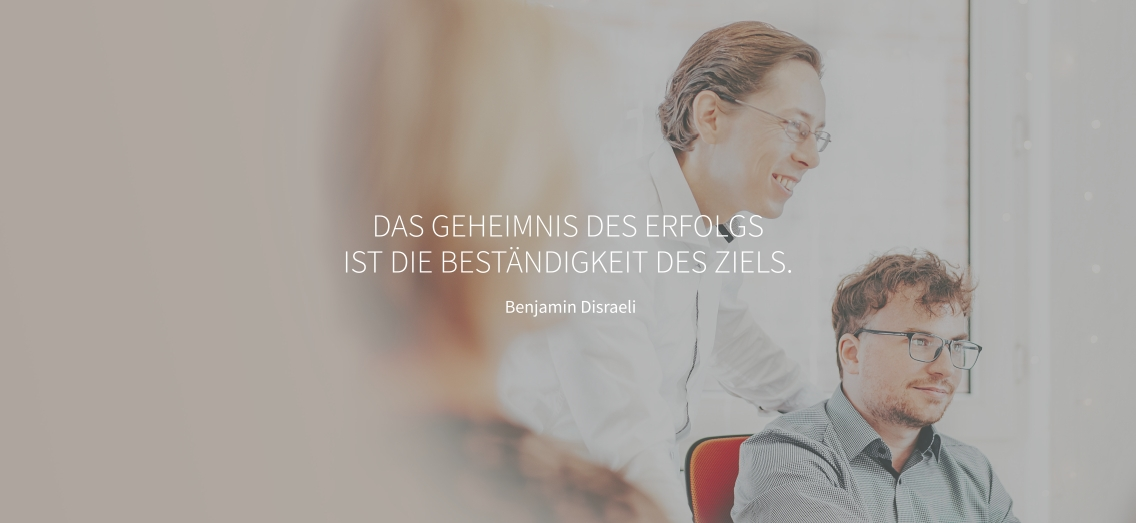
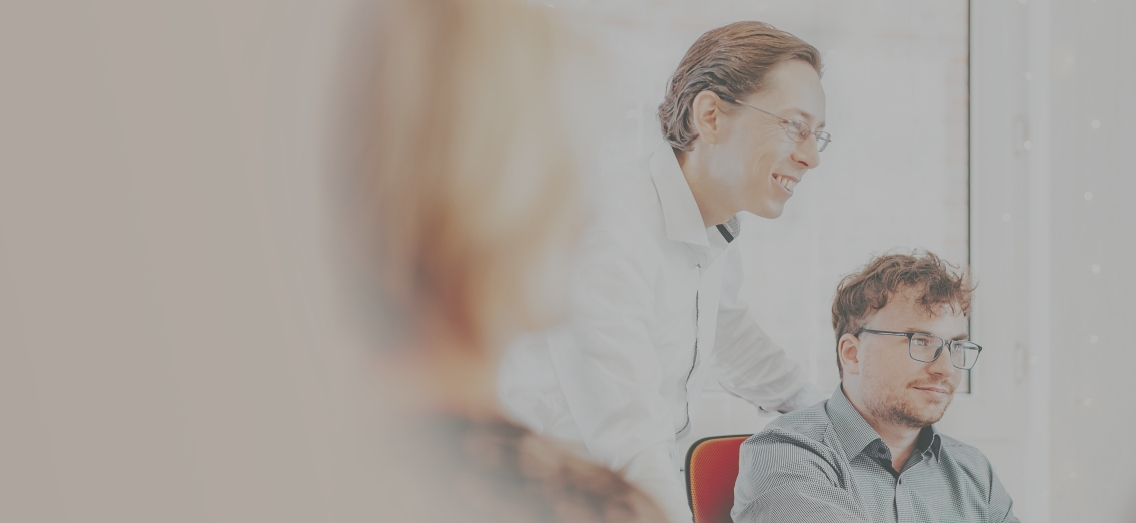
Change mask element container, small change css

Changed region(s): [[0.3081, 0.3977, 0.7086, 0.5201], [0.4313, 0.5813, 0.5546, 0.6119]]

diff --git a/fileadmin/template_v2/Resources/Private/Extensions/Mask/content/container.html b/fileadmin/template_v2/Resources/Private/Extensions/Mask/content/container.html
@@ -1,7 +1,28 @@
 <div class="section container">
-  <f:if condition="{data.image}">
-    <f:for each="{data.image}" as="file">
-      <f:image image="{file}" alt="{file.alternative}" title="{file.title}" width="1120" class="res-i" additionalAttributes="{loading: 'lazy'}" />
-    </f:for>
-  </f:if>
+  <div class="img-wrap-center">
+    <f:if condition="{data.image}">
+      <f:for each="{data.image}" as="file">
+        <f:image image="{file}" alt="{file.alternative}" title="{file.title}" width="1120" class="res-i" additionalAttributes="{loading: 'lazy'}" />
+      </f:for>
+    </f:if>
+    <div class="img-wrap-center__caption">
+
+      <f:if condition="{data.tx_mask_container_header}">
+        <h2><f:format.raw>{data.tx_mask_container_header}</f:format.raw></h2>
+      </f:if>
+      <f:if condition="{data.tx_mask_container_text}">
+        <p><f:format.raw>{data.tx_mask_container_text}</f:format.raw></p>
+      </f:if>
+    </div>
+  </div>
 </div>
+
+<!--
+<div class="img-wrap-center">
+  <img src="img/center-img2.jpg" loading="lazy" alt="" class="res-i">
+  <div class="img-wrap-center__caption">
+
+    <h2>DAS GEHEIMNIS DES ERFOLGS  <br> IST DIE BESTÄNDIGKEIT DES ZIELS.</h2>
+    <p>Benjamin Disraeli</p>
+  </div>
+</div> -->

diff --git a/fileadmin/template_v2/Resources/Public/css/style_back.css b/fileadmin/template_v2/Resources/Public/css/style_back.css
@@ -35,7 +35,7 @@ a {
           justify-content: center;
   padding-top: 2.5rem;
   padding-bottom: 2.5rem;
-  min-height: calc(100vh - 180px);
+  min-height: calc(100vh - 80px);
 }
 .headerBlock::before {
   content: "";
@@ -241,24 +241,4 @@ body h5 {
 }
 .contact-data strong a {
   color: #b61928 !important;
-}
-
-.img-wrap-center {
-  position: relative;
-}
-
-.img-wrap-center__caption {
-  position: absolute;
-  left: 50%;
-  top: 50%;
-  bottom: auto;
-  right: auto;
-  -webkit-transform: translate(-50%, -50%);
-      -ms-transform: translate(-50%, -50%);
-          transform: translate(-50%, -50%);
-  text-align: center;
-  color: #ffffff;
-  font-size: 18px;
-  font-weight: 300;
-  width: 100%;
 }

diff --git a/fileadmin/template_v2/Resources/Public/css/style.scss b/fileadmin/template_v2/Resources/Public/css/style.scss
@@ -23,7 +23,7 @@ a{@include mt;}
   }
   padding-top: rem(40);
   padding-bottom: rem(40);
-  min-height: calc(100vh - 80px);
+  min-height: calc(100vh - 180px);
   &::before {
     content: '';
     position: absolute;
@@ -211,4 +211,16 @@ a{@include mt;}
        color: #b61928 !important;
      }
    }
+ }
+
+ .img-wrap-center{
+   position: relative;
+ }
+ .img-wrap-center__caption{
+   @include a-cent1;
+   text-align: center;
+   color: #ffffff;
+   font-size: 18px;
+   font-weight: 300;
+   width: 100%;
  }

diff --git a/fileadmin/template_v2/Resources/Private/Extensions/Mask/content/container_back.html b/fileadmin/template_v2/Resources/Private/Extensions/Mask/content/container_back.html
@@ -1,0 +1,7 @@
+<div class="section container">
+  <f:if condition="{data.image}">
+    <f:for each="{data.image}" as="file">
+      <f:image image="{file}" alt="{file.alternative}" title="{file.title}" width="1120" class="res-i" additionalAttributes="{loading: 'lazy'}" />
+    </f:for>
+  </f:if>
+</div>
